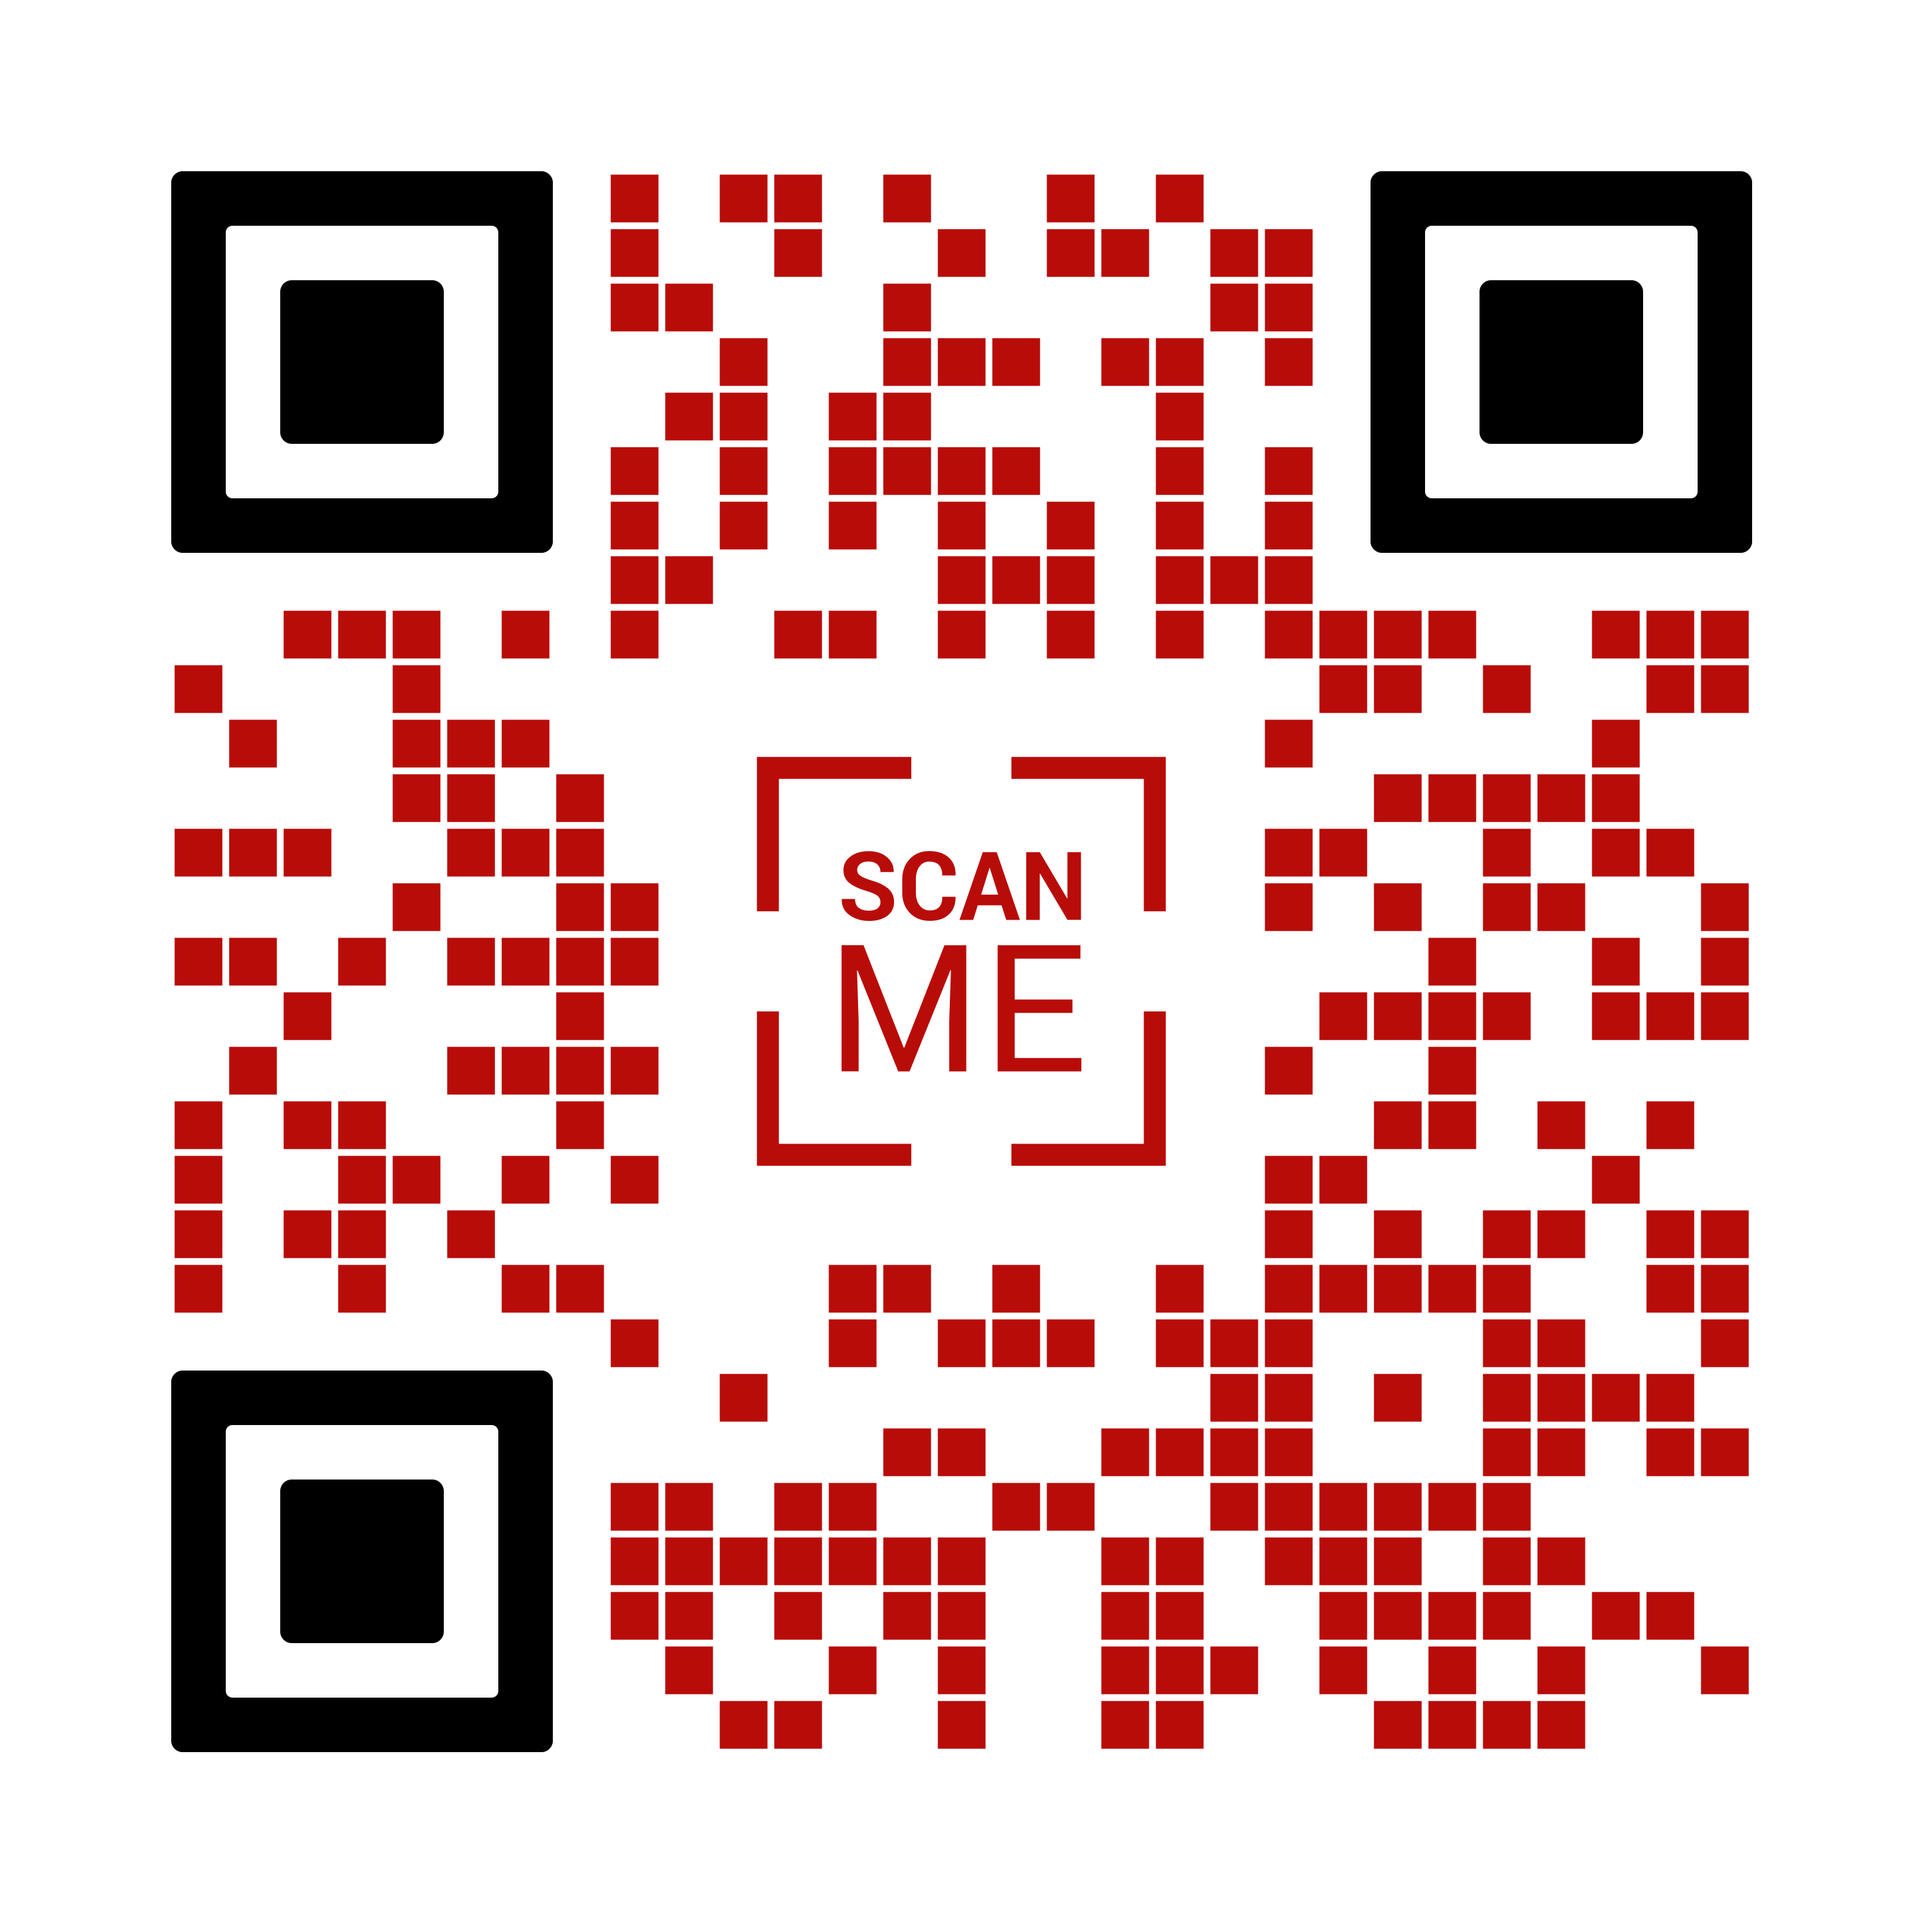
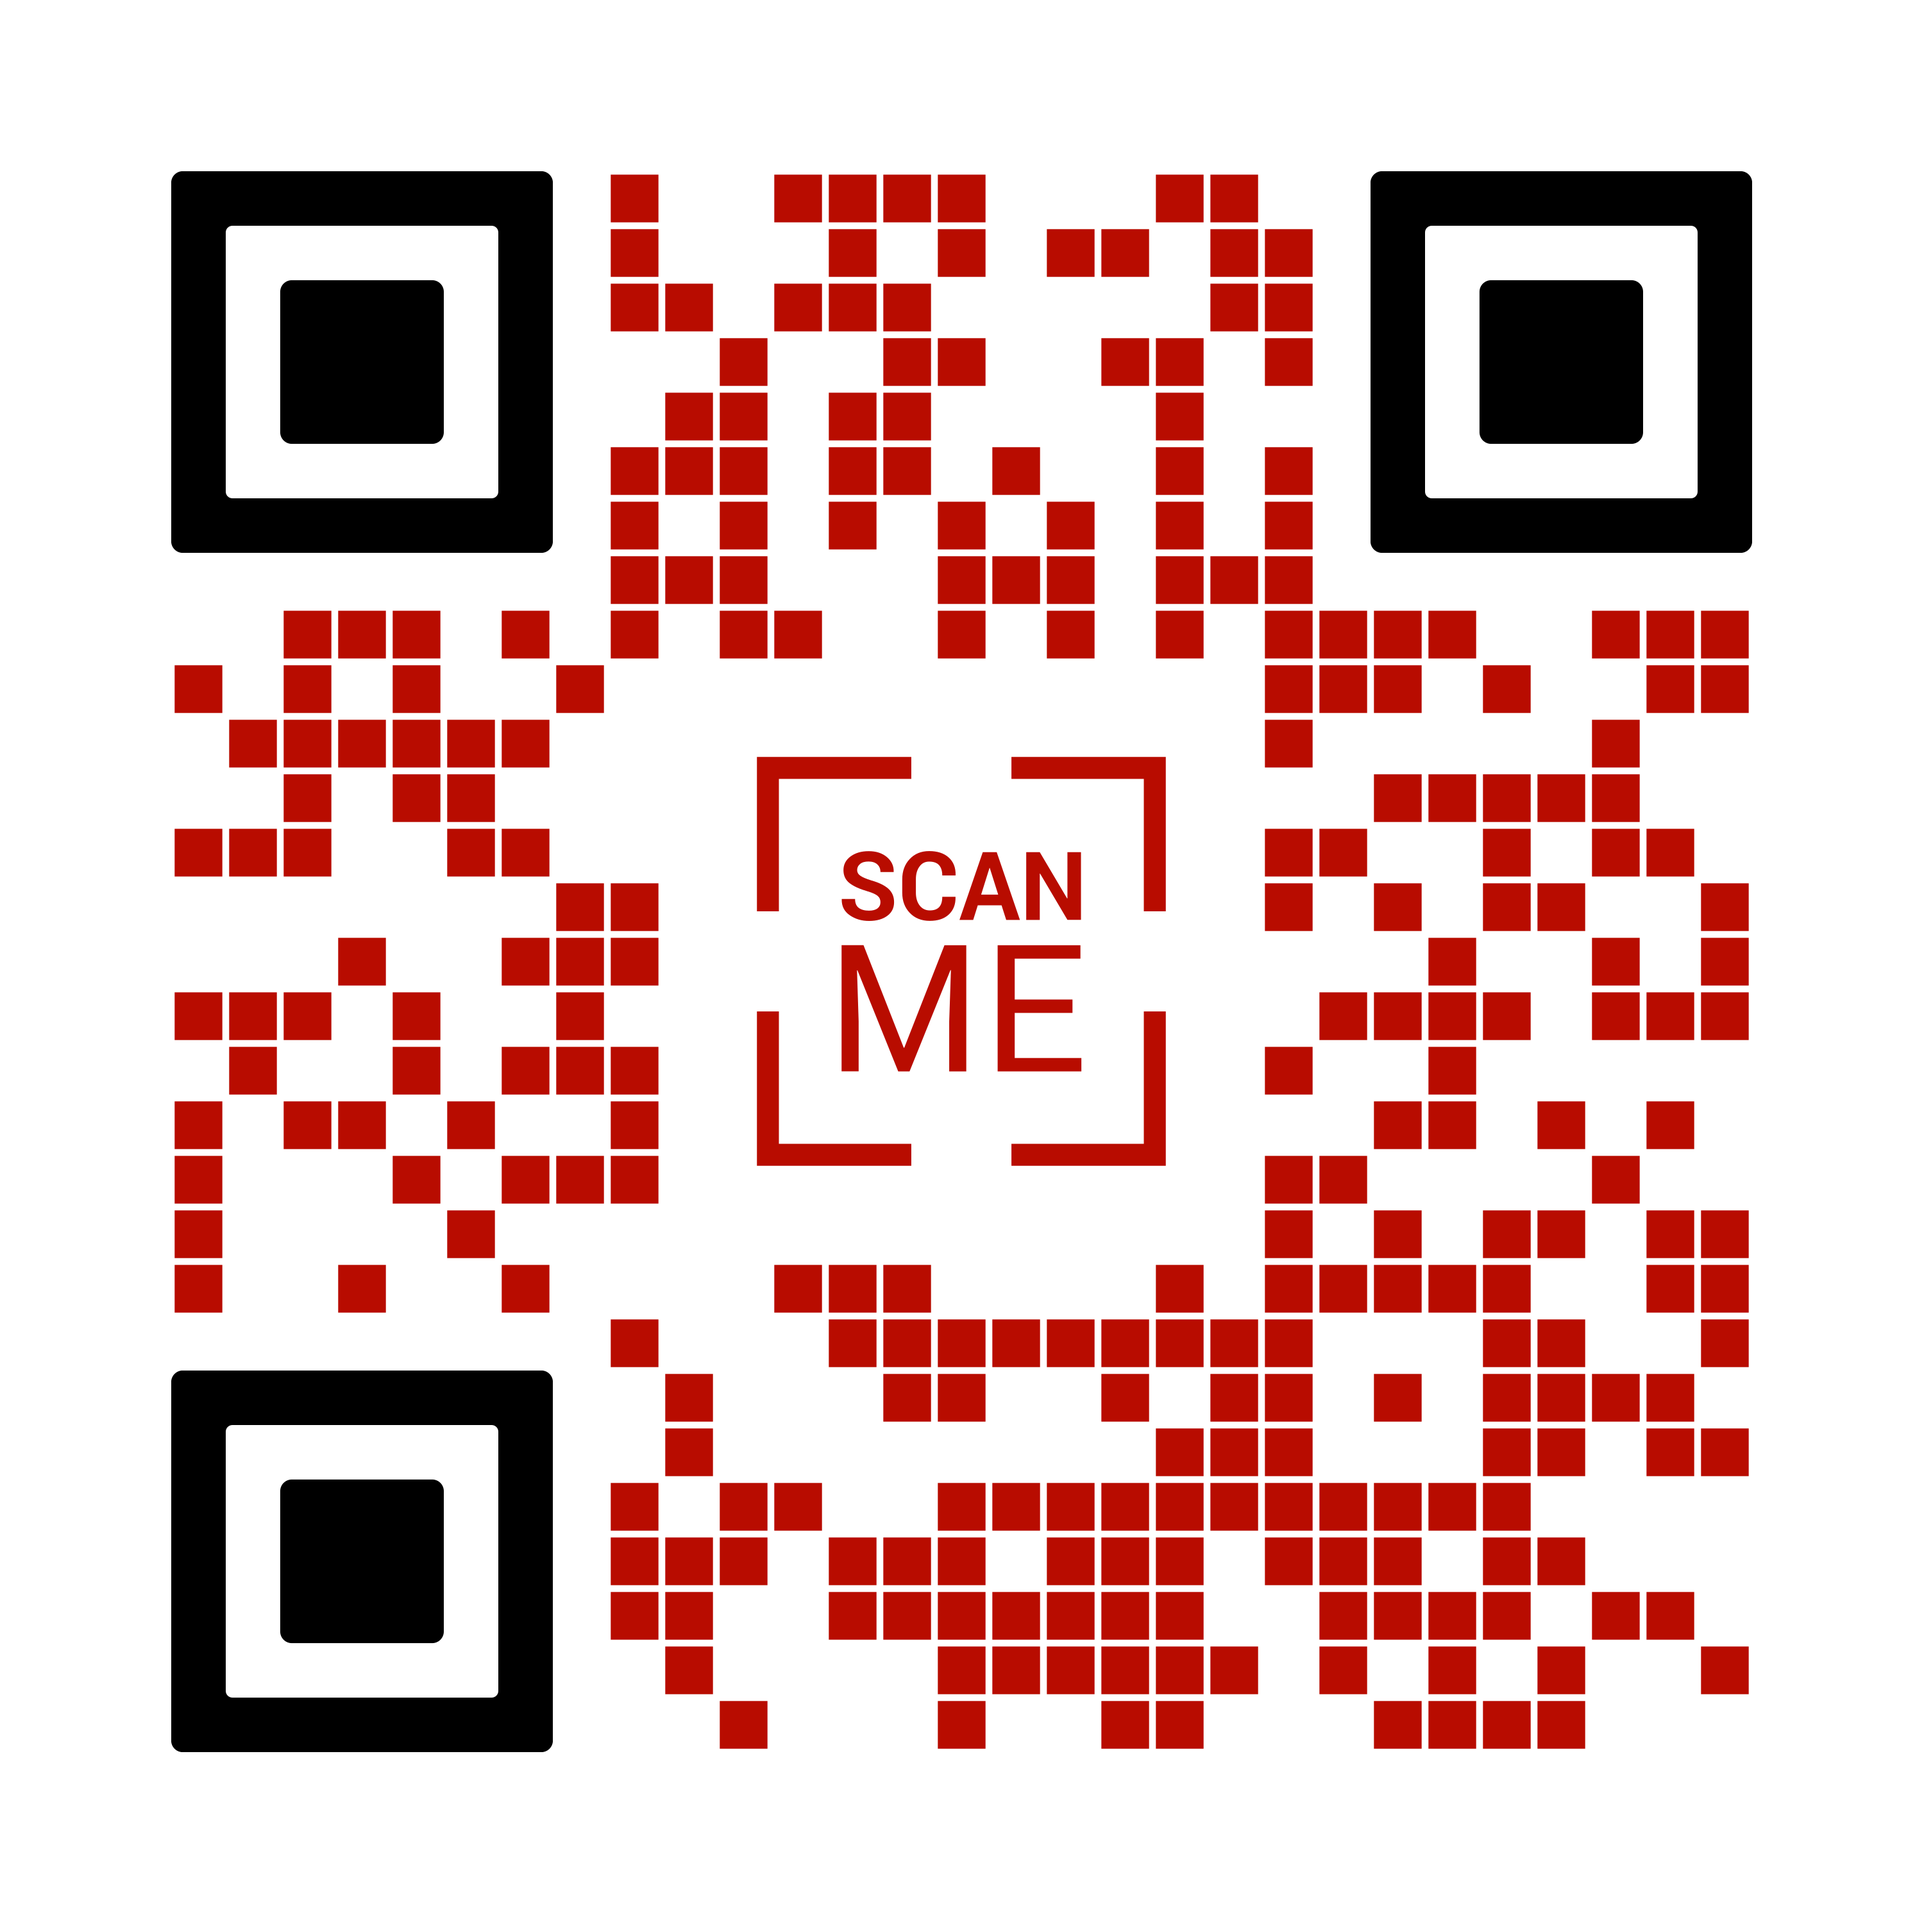
added telegram group link and qrcode

diff --git a/src/components/JoinGroup.jsx b/src/components/JoinGroup.jsx
@@ -24,7 +24,7 @@ export default function JoinGroup() {
               </div>
 
               <a
-                href="https://t.me/ermiwak2"
+                href="https://t.me/SoftExit_StudyGroup"
                 target="_blank"
                 rel="noopener noreferrer"
                 className="inline-flex justify-center items-center w-full px-4 sm:px-6 py-3 bg-[#B80C09] hover:-translate-y-1 text-white rounded-lg font-semibold hover:bg-red-700 transition text-sm sm:text-base md:text-lg"

diff --git a/src/components/Resources.jsx b/src/components/Resources.jsx
@@ -1,7 +1,7 @@
 import { BookOpen, StickyNote, Video } from 'lucide-react'
 
 export default function Resources() {
-  const telegramLink = 'https://t.me/ermiwak2'
+  const telegramLink = 'https://t.me/SoftExit_StudyGroup'
 
   return (
     <section className="py-12 bg-white">
